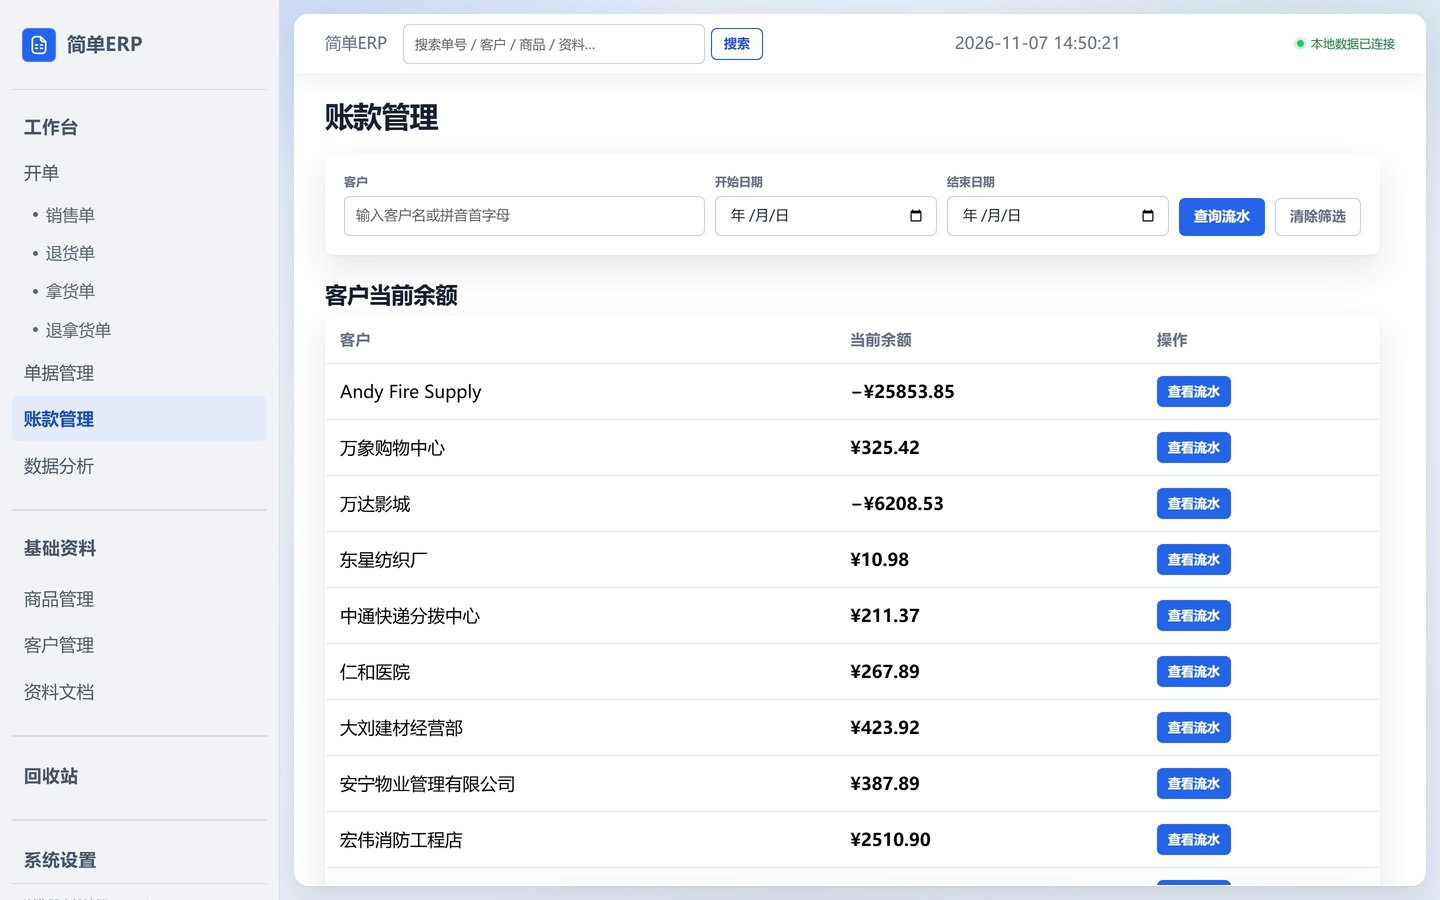
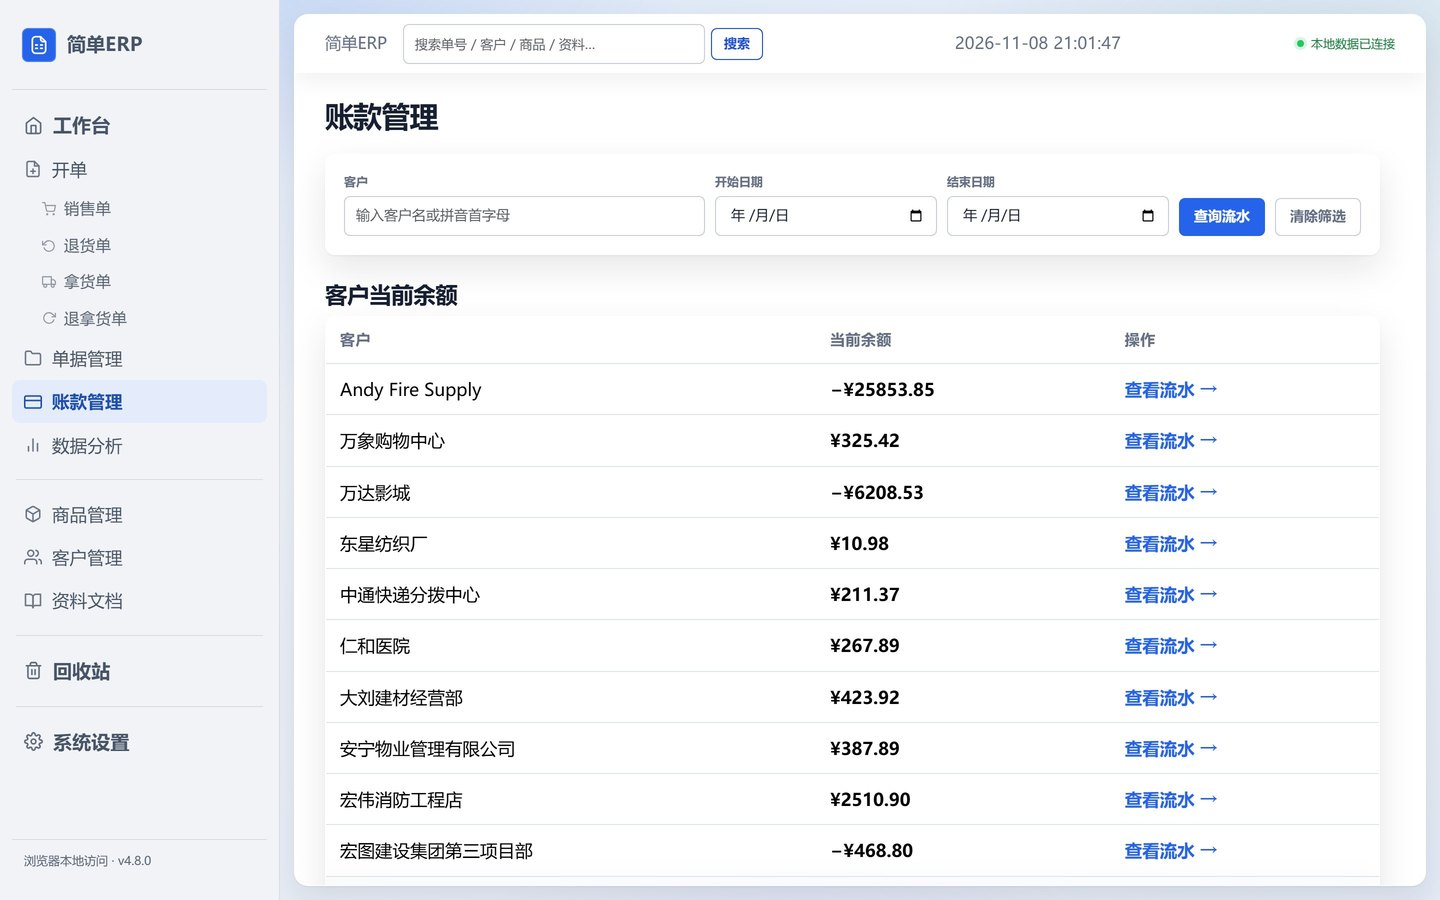
feat(ui): 侧栏开源图标与分级排版（v4.9.0 界面去乱收口）
- 侧栏改用 Feather Icons(MIT) 内联 SVG，14 个入口全部配图标，离线可用、随主题变色
- 按层级重排字号/字重/缩进：一级重点 15px·700，一级普通 14px·500，开单子项缩进 16px·12.5px·400；移除『基础资料』眉标
- 路由/分组/高亮/224px 宽度不变；同步重拍 README 桌面截图
- VERSION v4.8.0→v4.9.0，CHANGELOG 增补 v4.9.0（并入 v4.8.0 后的 UI 去乱与账款修正）
- 回归：.venv-win pytest 1194 passed / 16 skipped；前端 node 113 passed

diff --git a/app/erp/templates/base.html b/app/erp/templates/base.html
@@ -1,6 +1,7 @@
 <!doctype html>
 <html lang="zh-CN" data-ui-theme="{{ ui_theme or 'light' }}" data-ui-scale="{{ ui_scale or '100' }}" data-ui-font-weight="{{ ui_font_weight or 'standard' }}" data-ui-hints="{{ 'on' if ui_show_hints else 'off' }}" data-desktop="{{ '1' if is_desktop else '0' }}">
 <head>
+  {% from "_nav_icons.html" import nav_icon %}
   <meta charset="utf-8">
   <meta name="viewport" content="width=device-width, initial-scale=1">
   {# 关闭提醒浮层要读的同步状态地址（2026-10-24）。放在 meta 里而不是内联 JS：
@@ -161,16 +162,24 @@
     .brand-mark svg{width:20px;height:20px;display:block}
     .brand-title{font-size:calc(15px * var(--erp-scale));font-weight:650;letter-spacing:.02em;line-height:1.25}
     .nav-group{flex:0 0 auto}
-    .nav-label{margin:0 0 7px;padding:9px 12px;color:var(--erp-sidebar-ink);font-size:calc(14px * var(--erp-scale));font-weight:700;letter-spacing:.04em}
-    .nav-section{display:flex;align-items:center;min-height:42px;margin:2px 0;padding:9px 12px;border-radius:6px;color:var(--erp-sidebar-ink);font-size:calc(14px * var(--erp-scale));font-weight:600;text-decoration:none;transition:background .15s,color .15s}
-    .nav-section:hover{background:var(--erp-sidebar-hover);color:var(--erp-sidebar-ink)}.nav-section.active{background:var(--erp-sidebar-active);color:var(--erp-sidebar-active-ink)}
-    .nav-divider{height:2px;flex:none;background:var(--erp-sidebar-border);margin:20px 0 14px}
-    .sidebar a{position:relative;color:var(--erp-sidebar-ink);display:flex;align-items:center;min-height:42px;padding:9px 12px;margin:2px 0;text-decoration:none;border-radius:6px;font-weight:500;font-size:calc(14px * var(--erp-scale));transition:background .15s,color .15s}
-    .sidebar a.nav-section{font-weight:700;letter-spacing:.04em}
-    .sidebar a:hover{background:var(--erp-sidebar-hover);color:var(--erp-sidebar-ink)}.sidebar a.active{background:var(--erp-sidebar-active);color:var(--erp-sidebar-active-ink);font-weight:600}
-    .sidebar a.sidebar-sub{min-height:34px;margin-left:14px;padding:6px 12px 6px 20px;font-size:calc(13px * var(--erp-scale));color:var(--erp-sidebar-muted);background:transparent}
-    .sidebar a.sidebar-sub:before{content:"";position:absolute;left:7px;width:5px;height:5px;border-radius:50%;background:var(--erp-sidebar-muted)}
-    .sidebar a.sidebar-sub:hover{color:var(--erp-sidebar-ink);background:var(--erp-sidebar-hover)}.sidebar a.sidebar-sub.active{color:var(--erp-sidebar-active-ink);background:var(--erp-sidebar-active)}.sidebar a.sidebar-sub.active:before{background:var(--erp-primary)}
+    .nav-divider{height:1px;flex:none;background:var(--erp-sidebar-border);margin:12px 4px}
+    /* 基础条目：一级普通入口（开单 / 单据管理 / 账款管理 / 数据分析 / 商品 / 客户 / 资料） */
+    .sidebar a{position:relative;color:var(--erp-sidebar-ink);display:flex;align-items:center;gap:10px;min-height:40px;padding:8px 12px;margin:1px 0;text-decoration:none;border-radius:8px;font-weight:500;font-size:calc(14px * var(--erp-scale));letter-spacing:.01em;transition:background .15s,color .15s}
+    .sidebar a .nav-ico{width:18px;height:18px;flex:0 0 auto;opacity:.78;transition:opacity .15s}
+    .sidebar a:hover{background:var(--erp-sidebar-hover);color:var(--erp-sidebar-ink)}
+    .sidebar a.active{background:var(--erp-sidebar-active);color:var(--erp-sidebar-active-ink);font-weight:600}
+    .sidebar a:hover .nav-ico{opacity:1}
+    .sidebar a.active .nav-ico{opacity:1}
+    /* 一级重点入口（工作台 / 回收站 / 系统设置）：字号更大、加粗、行高更高 */
+    .sidebar a.nav-section{font-weight:700;font-size:calc(15px * var(--erp-scale));letter-spacing:.02em;min-height:44px}
+    .sidebar a.nav-section .nav-ico{width:19px;height:19px;opacity:.85}
+    /* 二级入口（销售 / 退货 / 拿货 / 退拿货）：进退格缩进 + 小字号 + 常规字重 + 弱化色 */
+    .sidebar a.sidebar-sub{min-height:32px;margin-left:16px;padding:6px 12px 6px 14px;font-size:calc(12.5px * var(--erp-scale));font-weight:400;letter-spacing:.01em;color:var(--erp-sidebar-muted);background:transparent;gap:8px}
+    .sidebar a.sidebar-sub .nav-ico{width:14px;height:14px;opacity:.62}
+    .sidebar a.sidebar-sub:hover{color:var(--erp-sidebar-ink);background:var(--erp-sidebar-hover)}
+    .sidebar a.sidebar-sub:hover .nav-ico{opacity:.85}
+    .sidebar a.sidebar-sub.active{color:var(--erp-sidebar-active-ink);background:var(--erp-sidebar-active);font-weight:500}
+    .sidebar a.sidebar-sub.active .nav-ico{opacity:1}
     .app-version{margin-top:auto;padding:12px;color:var(--erp-sidebar-muted);font-size:12px;border-top:1px solid var(--erp-sidebar-border)}
     /*
       Topbar stays outside the scrollport:
@@ -810,30 +819,29 @@
   <nav class="sidebar">
     <div class="brand"><div class="brand-mark" aria-hidden="true"><svg viewBox="0 0 24 24" fill="none" stroke="currentColor" stroke-width="2" stroke-linecap="round" stroke-linejoin="round" focusable="false"><path d="M14 2H8C5.79086 2 4 3.79086 4 6V18C4 20.2091 5.79086 22 8 22H16C18.2091 22 20 20.2091 20 18V8L14 2ZM14 2V5C14 6.65685 15.3431 8 17 8H20M8 12H10M14 12H16M8 16H10M14 16H16"/></svg></div><div><div class="brand-title">{{ shop_name or '简单ERP' }}</div></div></div>
     <section class="nav-group" aria-label="工作台">
-    <a class="nav-section {{'active' if nav.workbench else ''}}" href="/">工作台</a>
-    <a class="{{'active' if nav.order_entry else ''}}" href="/orders/new">开单</a>
-    <a class="sidebar-sub {{'active' if nav.sale_entry else ''}}" href="/orders/new">销售单</a>
-    <a class="sidebar-sub {{'active' if nav.return_entry else ''}}" href="/orders/return/new">退货单</a>
-    <a class="sidebar-sub {{'active' if nav.purchase_entry else ''}}" href="/purchases/new">拿货单</a>
-    <a class="sidebar-sub {{'active' if nav.purchase_return_entry else ''}}" href="/purchases/return/new">退拿货单</a>
-    <a class="{{'active' if nav.documents else ''}}" href="/orders/">单据管理</a>
-    <a class="{{'active' if nav.accounts else ''}}" href="/accounts/">账款管理</a>
-    <a class="{{'active' if nav.analytics else ''}}" href="/analytics/">数据分析</a>
+    <a class="nav-section {{'active' if nav.workbench else ''}}" href="/">{{ nav_icon('home') }}工作台</a>
+    <a class="{{'active' if nav.order_entry else ''}}" href="/orders/new">{{ nav_icon('file-plus') }}开单</a>
+    <a class="sidebar-sub {{'active' if nav.sale_entry else ''}}" href="/orders/new">{{ nav_icon('shopping-cart') }}销售单</a>
+    <a class="sidebar-sub {{'active' if nav.return_entry else ''}}" href="/orders/return/new">{{ nav_icon('rotate-ccw') }}退货单</a>
+    <a class="sidebar-sub {{'active' if nav.purchase_entry else ''}}" href="/purchases/new">{{ nav_icon('truck') }}拿货单</a>
+    <a class="sidebar-sub {{'active' if nav.purchase_return_entry else ''}}" href="/purchases/return/new">{{ nav_icon('rotate-cw') }}退拿货单</a>
+    <a class="{{'active' if nav.documents else ''}}" href="/orders/">{{ nav_icon('folder') }}单据管理</a>
+    <a class="{{'active' if nav.accounts else ''}}" href="/accounts/">{{ nav_icon('credit-card') }}账款管理</a>
+    <a class="{{'active' if nav.analytics else ''}}" href="/analytics/">{{ nav_icon('bar-chart') }}数据分析</a>
     </section>
     <div class="nav-divider" aria-hidden="true"></div>
     <section class="nav-group" aria-label="基础资料">
-    <div class="nav-label">基础资料</div>
-    <a class="{{'active' if nav.products else ''}}" href="/products/">商品管理</a>
-    <a class="{{'active' if nav.customers else ''}}" href="/customers/">客户管理</a>
-    <a class="{{'active' if nav.docs else ''}}" href="/docs/">资料文档</a>
+    <a class="{{'active' if nav.products else ''}}" href="/products/">{{ nav_icon('box') }}商品管理</a>
+    <a class="{{'active' if nav.customers else ''}}" href="/customers/">{{ nav_icon('users') }}客户管理</a>
+    <a class="{{'active' if nav.docs else ''}}" href="/docs/">{{ nav_icon('book-open') }}资料文档</a>
     </section>
     <div class="nav-divider" aria-hidden="true"></div>
     <section class="nav-group" aria-label="回收站">
-    <a class="nav-section {{'active' if nav.recycle else ''}}" href="/recycle/">回收站</a>
+    <a class="nav-section {{'active' if nav.recycle else ''}}" href="/recycle/">{{ nav_icon('trash') }}回收站</a>
     </section>
     <div class="nav-divider" aria-hidden="true"></div>
     <section class="nav-group" aria-label="系统设置">
-    <a class="nav-section {{'active' if nav.settings else ''}}" href="/settings/">系统设置</a>
+    <a class="nav-section {{'active' if nav.settings else ''}}" href="/settings/">{{ nav_icon('settings') }}系统设置</a>
     </section>
     <div class="app-version">{{ '本地桌面版' if is_desktop else '浏览器本地访问' }} · {{app_version}}</div>
   </nav>

diff --git a/app/erp/templates/_nav_icons.html b/app/erp/templates/_nav_icons.html
@@ -1,0 +1,38 @@
+{# 桌面端侧栏图标：Feather Icons（MIT，https://github.com/feathericons/feather）内联 SVG。
+   全部内联、不依赖任何外部字体 / CDN，断网桌面版也能显示；
+   统一走 currentColor + 1 处 .nav-ico 尺寸，换主题 / 高亮时自动跟随文字色。 #}
+{% macro nav_icon(name) -%}
+<svg class="nav-ico" viewBox="0 0 24 24" fill="none" stroke="currentColor" stroke-width="2" stroke-linecap="round" stroke-linejoin="round" aria-hidden="true" focusable="false">
+{%- if name == 'home' -%}
+<path d="M3 9l9-7 9 7v11a2 2 0 0 1-2 2H5a2 2 0 0 1-2-2z"/><polyline points="9 22 9 12 15 12 15 22"/>
+{%- elif name == 'file-plus' -%}
+<path d="M14 2H6a2 2 0 0 0-2 2v16a2 2 0 0 0 2 2h12a2 2 0 0 0 2-2V8z"/><polyline points="14 2 14 8 20 8"/><line x1="12" y1="18" x2="12" y2="12"/><line x1="9" y1="15" x2="15" y2="15"/>
+{%- elif name == 'shopping-cart' -%}
+<circle cx="9" cy="21" r="1"/><circle cx="20" cy="21" r="1"/><path d="M1 1h4l2.68 13.39a2 2 0 0 0 2 1.61h9.72a2 2 0 0 0 2-1.61L23 6H6"/>
+{%- elif name == 'rotate-ccw' -%}
+<polyline points="1 4 1 10 7 10"/><path d="M3.51 15a9 9 0 1 0 2.13-9.36L1 10"/>
+{%- elif name == 'package' -%}
+<line x1="16.5" y1="9.4" x2="7.5" y2="4.21"/><path d="M21 16V8a2 2 0 0 0-1-1.73l-7-4a2 2 0 0 0-2 0l-7 4A2 2 0 0 0 3 8v8a2 2 0 0 0 1 1.73l7 4a2 2 0 0 0 2 0l7-4A2 2 0 0 0 21 16z"/><polyline points="3.27 6.96 12 12.01 20.73 6.96"/><line x1="12" y1="22.08" x2="12" y2="12"/>
+{%- elif name == 'truck' -%}
+<rect x="1" y="3" width="15" height="13"/><polygon points="16 8 20 8 23 11 23 16 16 16 16 8"/><circle cx="5.5" cy="18.5" r="2.5"/><circle cx="18.5" cy="18.5" r="2.5"/>
+{%- elif name == 'rotate-cw' -%}
+<polyline points="23 4 23 10 17 10"/><path d="M20.49 15a9 9 0 1 1-2.12-9.36L23 10"/>
+{%- elif name == 'folder' -%}
+<path d="M22 19a2 2 0 0 1-2 2H4a2 2 0 0 1-2-2V5a2 2 0 0 1 2-2h5l2 3h9a2 2 0 0 1 2 2z"/>
+{%- elif name == 'credit-card' -%}
+<rect x="1" y="4" width="22" height="16" rx="2" ry="2"/><line x1="1" y1="10" x2="23" y2="10"/>
+{%- elif name == 'bar-chart' -%}
+<line x1="18" y1="20" x2="18" y2="10"/><line x1="12" y1="20" x2="12" y2="4"/><line x1="6" y1="20" x2="6" y2="14"/>
+{%- elif name == 'box' -%}
+<path d="M21 16V8a2 2 0 0 0-1-1.73l-7-4a2 2 0 0 0-2 0l-7 4A2 2 0 0 0 3 8v8a2 2 0 0 0 1 1.73l7 4a2 2 0 0 0 2 0l7-4A2 2 0 0 0 21 16z"/><polyline points="3.27 6.96 12 12.01 20.73 6.96"/><line x1="12" y1="22.08" x2="12" y2="12"/>
+{%- elif name == 'users' -%}
+<path d="M17 21v-2a4 4 0 0 0-4-4H5a4 4 0 0 0-4 4v2"/><circle cx="9" cy="7" r="4"/><path d="M23 21v-2a4 4 0 0 0-3-3.87"/><path d="M16 3.13a4 4 0 0 1 0 7.75"/>
+{%- elif name == 'book-open' -%}
+<path d="M2 3h6a4 4 0 0 1 4 4v14a3 3 0 0 0-3-3H2z"/><path d="M22 3h-6a4 4 0 0 0-4 4v14a3 3 0 0 1 3-3h7z"/>
+{%- elif name == 'trash' -%}
+<polyline points="3 6 5 6 21 6"/><path d="M19 6v14a2 2 0 0 1-2 2H7a2 2 0 0 1-2-2V6m3 0V4a2 2 0 0 1 2-2h4a2 2 0 0 1 2 2v2"/><line x1="10" y1="11" x2="10" y2="17"/><line x1="14" y1="11" x2="14" y2="17"/>
+{%- elif name == 'settings' -%}
+<circle cx="12" cy="12" r="3"/><path d="M19.4 15a1.65 1.65 0 0 0 .33 1.82l.06.06a2 2 0 0 1 0 2.83 2 2 0 0 1-2.83 0l-.06-.06a1.65 1.65 0 0 0-1.82-.33 1.65 1.65 0 0 0-1 1.51V21a2 2 0 0 1-2 2 2 2 0 0 1-2-2v-.09A1.65 1.65 0 0 0 9 19.4a1.65 1.65 0 0 0-1.82.33l-.06.06a2 2 0 0 1-2.83 0 2 2 0 0 1 0-2.83l.06-.06a1.65 1.65 0 0 0 .33-1.82 1.65 1.65 0 0 0-1.51-1H3a2 2 0 0 1-2-2 2 2 0 0 1 2-2h.09A1.65 1.65 0 0 0 4.6 9a1.65 1.65 0 0 0-.33-1.82l-.06-.06a2 2 0 0 1 0-2.83 2 2 0 0 1 2.83 0l.06.06a1.65 1.65 0 0 0 1.82.33H9a1.65 1.65 0 0 0 1-1.51V3a2 2 0 0 1 2-2 2 2 0 0 1 2 2v.09a1.65 1.65 0 0 0 1 1.51 1.65 1.65 0 0 0 1.82-.33l.06-.06a2 2 0 0 1 2.83 0 2 2 0 0 1 0 2.83l-.06.06a1.65 1.65 0 0 0-.33 1.82V9a1.65 1.65 0 0 0 1.51 1H21a2 2 0 0 1 2 2 2 2 0 0 1-2 2h-.09a1.65 1.65 0 0 0-1.51 1z"/>
+{%- endif -%}
+</svg>
+{%- endmacro %}

diff --git a/tests/test_accounts_recon_entry.py b/tests/test_accounts_recon_entry.py
@@ -74,18 +74,18 @@ def test_reconciliation_ownership_is_always_accounts():
     html = client.get(f"/accounts/reconciliation?customer_id={cid}").get_data(as_text=True)
     assert "返回账款管理" in html
     assert "返回数据分析" not in html
-    assert re.search(r'class="active" href="/accounts/">账款管理</a>', html), html
-    assert not re.search(r'class="active" href="/analytics/">数据分析</a>', html)
+    assert re.search(r'class="active" href="/accounts/">', html), html
+    assert not re.search(r'class="active" href="/analytics/">', html)
     # 旧来源参数已失效：不得把归属带去数据分析。
     stale = client.get(f"/accounts/reconciliation?customer_id={cid}&from=accounts").get_data(as_text=True)
     assert "返回账款管理" in stale
-    assert not re.search(r'class="active" href="/analytics/">数据分析</a>', stale)
+    assert not re.search(r'class="active" href="/analytics/">', stale)
     # 快照 URL（勾选/全选后的跳转目标）同样归账款管理。
     with get_db() as conn:
         snapshot_id = conn.execute("SELECT id FROM reconciliation_snapshots ORDER BY id DESC LIMIT 1").fetchone()[0]
     snap = client.get(f"/accounts/reconciliation?snapshot_id={snapshot_id}").get_data(as_text=True)
     assert "返回账款管理" in snap
-    assert re.search(r'class="active" href="/accounts/">账款管理</a>', snap), snap
+    assert re.search(r'class="active" href="/accounts/">', snap), snap
 
 
 def test_accounts_bulk_delete_orders_dead_route_is_removed():

diff --git a/tests/test_sidebar_ownership.py b/tests/test_sidebar_ownership.py
@@ -77,9 +77,9 @@ def test_reconciliation_is_owned_by_accounts():
         f"/accounts/reconciliation?customer_id={customer_id}"
     ).get_data(as_text=True)
     nav = re.search(r'<nav class="sidebar">.*?</nav>', html, re.S).group(0)
-    assert 'href="/accounts/">账款管理</a>' in nav
-    assert re.search(r'class="active" href="/accounts/">账款管理</a>', nav), nav
-    assert not re.search(r'class="active" href="/analytics/">数据分析</a>', nav)
+    assert 'href="/accounts/">' in nav and '>账款管理</a>' in nav
+    assert re.search(r'class="active" href="/accounts/">', nav), nav
+    assert not re.search(r'class="active" href="/analytics/">', nav)
     # 返回按钮与侧栏归属一致。
     assert "返回账款管理" in html
 
@@ -98,8 +98,8 @@ def test_reconciliation_snapshot_url_is_owned_by_accounts():
         create_app().test_client(),
         f"/accounts/reconciliation?snapshot_id={snapshot_id}",
     )
-    assert re.search(r'class="active" href="/accounts/">账款管理</a>', nav), nav
-    assert not re.search(r'class="active" href="/analytics/">数据分析</a>', nav)
+    assert re.search(r'class="active" href="/accounts/">', nav), nav
+    assert not re.search(r'class="active" href="/analytics/">', nav)
 
 
 def test_sidebar_has_no_ancestor_current_class():

diff --git a/tests/test_phase7_page_integration.py b/tests/test_phase7_page_integration.py
@@ -1,3 +1,5 @@
+import re
+
 from erp import create_app
 from erp.config import save_config
 from erp.db import init_db
@@ -28,11 +30,16 @@ def test_phase7_shared_navigation_exposes_each_business_area_without_new_duplica
     init_db()
     html = create_app().test_client().get("/").get_data(as_text=True)
 
-    assert html.count('href="/orders/">单据管理</a>') == 1
-    assert html.count('href="/accounts/">账款管理</a>') == 1
-    assert html.count('href="/analytics/">数据分析</a>') == 1
-    assert html.count('href="/products/">商品管理</a>') == 1
-    assert html.count('href="/customers/">客户管理</a>') == 1
+    nav = re.search(r'<nav class="sidebar">.*?</nav>', html, re.S).group(0)
+    for href, label in (
+        ('/orders/', '单据管理'),
+        ('/accounts/', '账款管理'),
+        ('/analytics/', '数据分析'),
+        ('/products/', '商品管理'),
+        ('/customers/', '客户管理'),
+    ):
+        assert nav.count(f'href="{href}"') == 1, href
+        assert f'>{label}</a>' in nav, href
 
 
 def test_phase7_orders_page_has_explicit_empty_state_for_empty_result():

diff --git a/tests/test_return_order_navigation.py b/tests/test_return_order_navigation.py
@@ -26,10 +26,10 @@ def test_sidebar_has_four_sections_and_a_gap_before_the_workspace():
     assert response.status_code == 200
     html = response.get_data(as_text=True)
     assert ">业务中心<" not in html
-    assert 'class="nav-section active" href="/">工作台</a>' in html
-    assert 'class="nav-label">基础资料</div>' in html
-    assert 'href="/recycle/">回收站</a>' in html
-    assert 'href="/settings/">系统设置</a>' in html
+    assert 'class="nav-section active" href="/">' in html and '>工作台</a>' in html
+    assert 'aria-label="基础资料"' in html
+    assert 'href="/recycle/">' in html and '>回收站</a>' in html
+    assert 'href="/settings/">' in html and '>系统设置</a>' in html
     assert html.count('class="nav-divider"') == 3
     assert 'height:calc(100% - 28px);margin:14px;' in html
 

diff --git a/tests/test_order_entry_visual_structure.py b/tests/test_order_entry_visual_structure.py
@@ -67,8 +67,8 @@ def test_sidebar_has_named_groups_without_changing_routes():
     for label in ("工作台", "基础资料", "回收站", "系统设置"):
         assert f'class="nav-group" aria-label="{label}"' in html
     assert html.count('class="nav-divider"') == 3
-    assert 'href="/">工作台</a>' in html
-    assert 'href="/settings/">系统设置</a>' in html
+    assert 'href="/">' in html and '>工作台</a>' in html
+    assert 'href="/settings/">' in html and '>系统设置</a>' in html
 
 
 def test_light_sidebar_uses_soft_scrollbar_tokens_and_vertical_scrollport():

diff --git a/CHANGELOG.md b/CHANGELOG.md
@@ -2,6 +2,33 @@
 
 > 各版本条目按当时发布口径保留。v0.8.0 永久免登录已经取代早期版本中记录的本机登录门；历史凭据不在更新记录中保存。
 
+## v4.9.0 - 界面去乱收口与侧栏图标层级（2026-11-08）
+
+> 桌面端 `VERSION` `v4.8.0` → **`v4.9.0`**；安卓端未改动（仍 `1.4.12`）。
+> 只改界面与交互，**不动 `erp.db` schema（仍 v16）**，不动业务端点、单号与打印。
+
+### 侧栏导航（本次）
+
+- 侧栏全部入口改用开源 **Feather Icons（MIT）** 内联 SVG 图标：不依赖外部字体 / CDN，桌面离线版可用，`currentColor` 随浅色 / 深色与高亮自动变色。
+- 按层级重排排版：一级重点入口（工作台 / 回收站 / 系统设置）15px·700·行高 44px；一级普通入口 14px·500·40px；开单四个子项二级缩进 16px + 12.5px·400·弱化色；移除「基础资料」分类眉标文字。
+- 路由、分组、高亮归属与 224px 侧栏宽度均保持不变。
+
+### 界面去乱（v4.8.0 之后并入本版）
+
+- 各页「去乱」减负：高级筛选默认折叠；账款 / 数据分析 / 单据管理筛选收进高级筛选；行内操作按钮由实心改描边 / 文字链接；开单行内复制粘贴热区加大。
+- 回收站：筛选与批量动作压成单行工具带，批量动作「选中后浮动出现」；资料文档：搜索常驻 +「＋上传文件」打开居中弹窗。
+- 全站文件上传（客户 / 商品导入、商品图片、导入备份、旧账存档）统一为居中弹窗；灰蒙版覆盖整屏，× / 取消 / 点蒙版 / Esc 均可关闭。
+- 账款：客户候选点选后把完整名称写回可见输入框；对账单 PDF 文件名改为「客户名_日期区间_往来对账单.pdf」，单据标头只印「日期 · 单号」，全站统一「往来对账单」命名。
+
+### 验收（本地）
+
+- 全量 pytest **1194 passed / 16 skipped / 0 failed**（`.venv-win` 打包环境）；前端 `node --test tests/frontend/*.test.mjs` **113 passed**。
+- 隔离实例真实页面核过侧栏浅色 / 深色与 125% 缩放；README 桌面截图已按演示数据重拍。
+
+### 产物与校验（GitHub Release v4.9.0，2026-11-08）
+
+（打包并发布后回填三资产 SHA256 与链接。）
+
 ## v4.8.0 - 功能增强三期与资料文档库（2026-11-07）
 
 > 桌面端 `VERSION` `v4.7.2` → **`v4.8.0`**；安卓端未改动（仍 `1.4.12`）。

diff --git a/README.md b/README.md
@@ -296,7 +296,7 @@ docs/                     需求、开发、打包说明、界面截图
 
 ## 版本
 
-当前源码版本以根目录 [`VERSION`](VERSION) 为准：**v4.8.0**；安卓原生端版本见 [`native/VERSION`](native/VERSION)：**1.4.12**。
+当前源码版本以根目录 [`VERSION`](VERSION) 为准：**v4.9.0**；安卓原生端版本见 [`native/VERSION`](native/VERSION)：**1.4.12**。
 
 逐版本的交付内容、验收证据与已知边界见 [CHANGELOG](CHANGELOG.md)；已发布版本见 [Releases](https://github.com/Astyyym/simple-erp/releases)。
 
